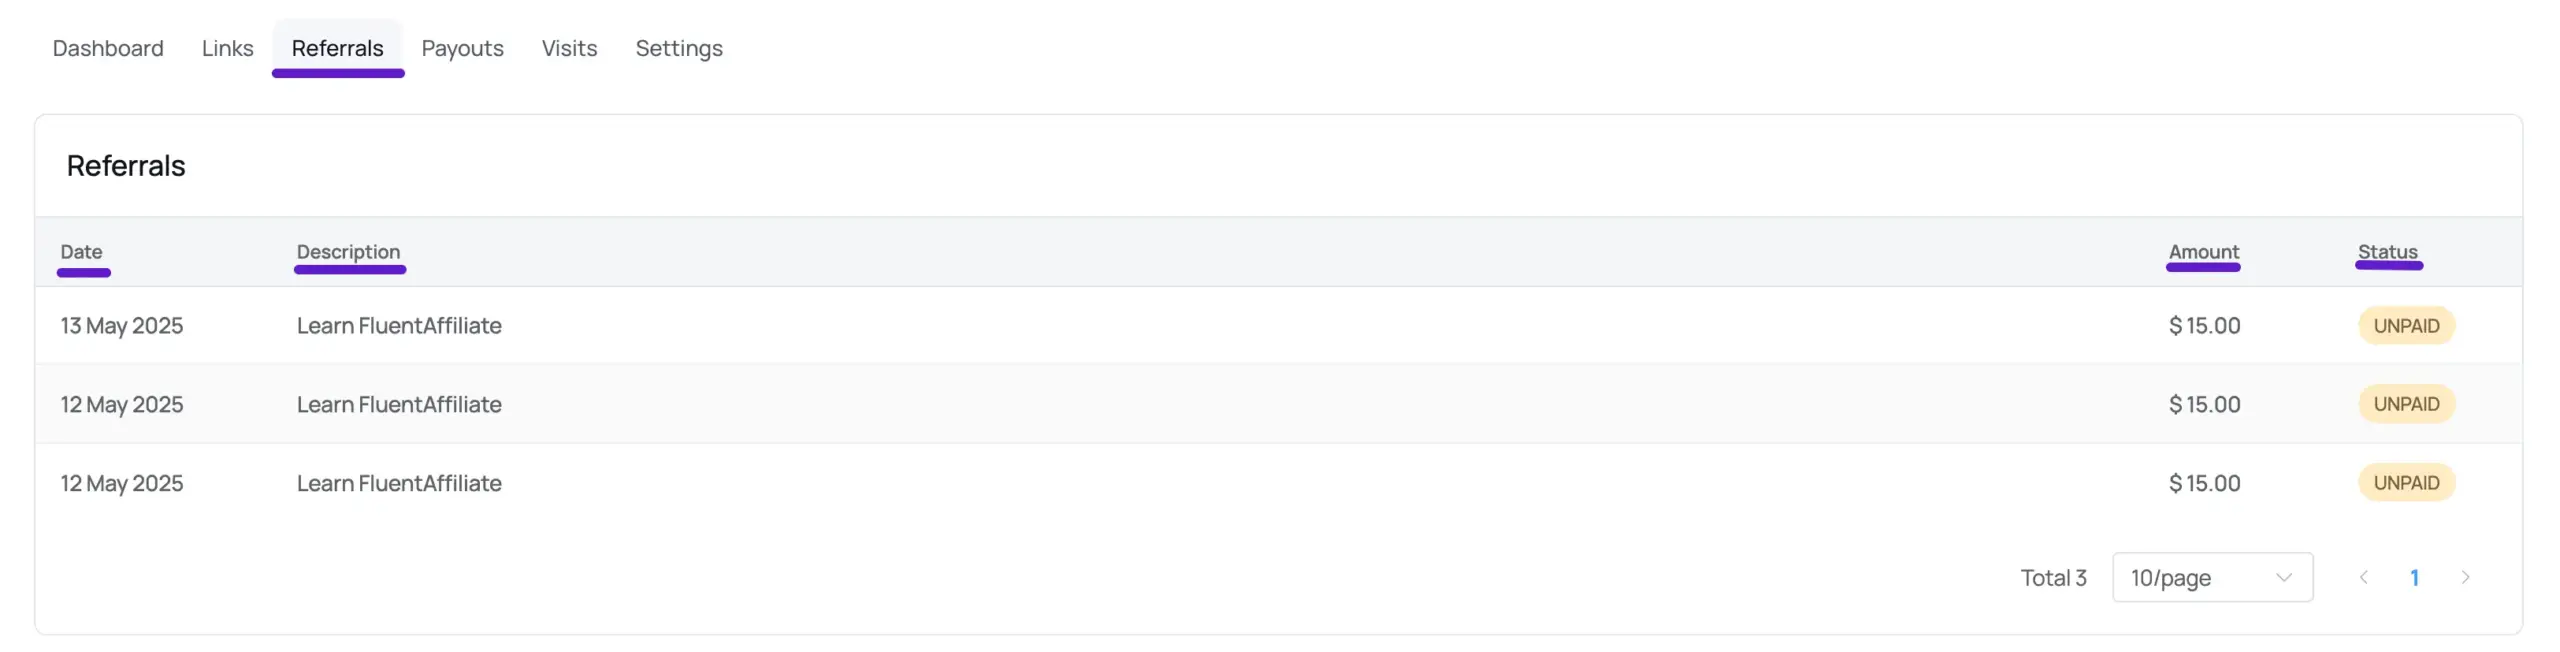
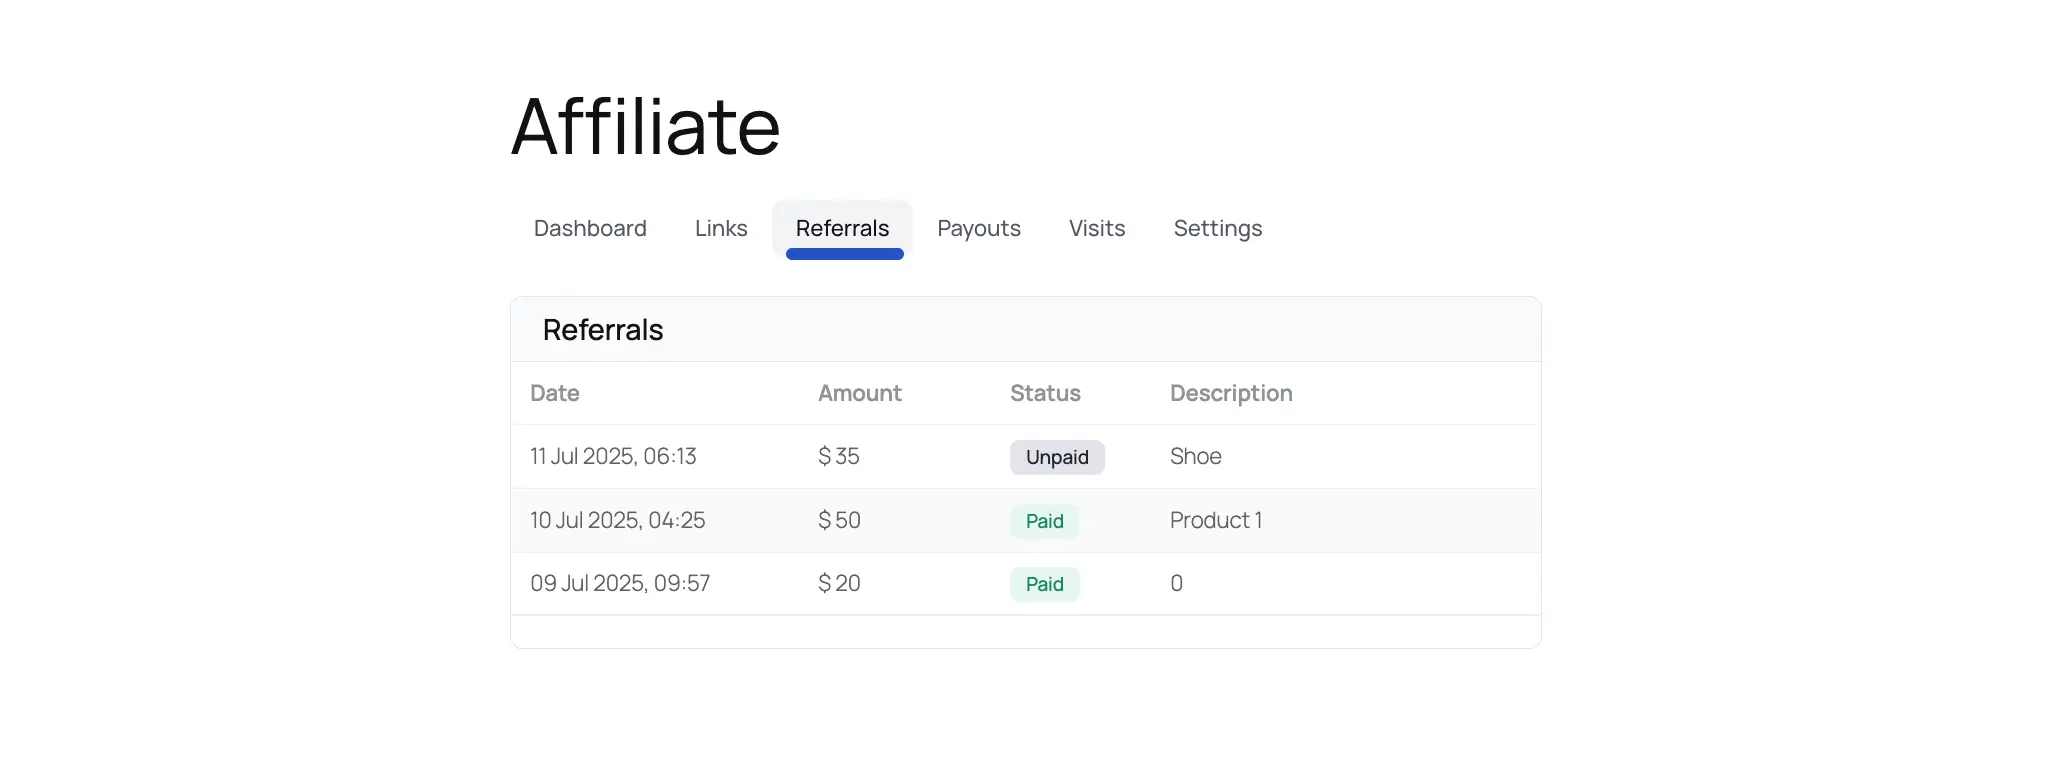
Tracking Referrals update
Tracking Referrals doc description rewrite and image change

diff --git a/guide/affiliate-portal/tracking-referrals.md b/guide/affiliate-portal/tracking-referrals.md
@@ -1,24 +1,22 @@
 # Tracking Referrals
 
-Once an affiliate logs into their account, they can easily track how well their promotions are performing right from the referrals. The **Referrals** tab is where they'll find all the details about the referrals' purchases using their unique affiliate links.
+The Referrals page is where you can see a detailed list of every successful sale or conversion you've generated. It’s the perfect place to track exactly how much you've earned from specific promotions. In this guide, we'll walk you through how affiliate users can view and understand their referrals in FluentAffiliate.
 
-In this guide, we'll walk you through how affiliate users can view and understand their referrals in FluentAffiliate.
+To check your referrals, log in to your affiliate portal and click on the **Referrals** tab in the main navigation.
 
 ## Referrals
 
-Affiliates need to log in to their account through the FluentAffiliate **User Portal**. Once logged in, they can click on the **Referrals** tab from the top menu to view all the referral details linked to their account.
+Referral provides a complete history of the commissions you have earned. Each row represents a single referral.
 
-Here's what each column in the referral table means:
+Here is a breakdown of the information in each column:
 
-* **Date**: The exact date and time when the referral took place.
-* **Description**: Shows which product or action triggered the referral and earned the affiliate a commission.
-* **Amount**: Displays how much commission was earned from that referral.
-* **Status**: Tells whether the referral is **Paid**, **Unpaid**, or **Rejected**.
+* **Date:** This shows the exact date and time the referral was recorded.
+* **Amount:** This displays the commission you earned for that specific sale.
+* **Status:** This tells you the current payment status of your commission. It will show as Paid for commissions you have received, and Unpaid for commissions that are approved but have not yet been sent. 
+* **Description:** This provides details about the product that was purchased.
 
 ![Referrals User Portal](/guide/public/images/affiliate-portal/referrals/referrals-list-view.webp)
 
-All referrals are listed in a table format, making it super simple to scroll through and analyze.
-
-Knowing which promotions are bringing in referrals helps affiliates fine tune their strategy. They can see what's working, track progress, and plan their next steps to increase conversions.
+So, now you can easily track your successful promotions and see which products are generating the most income for you.
 
 
